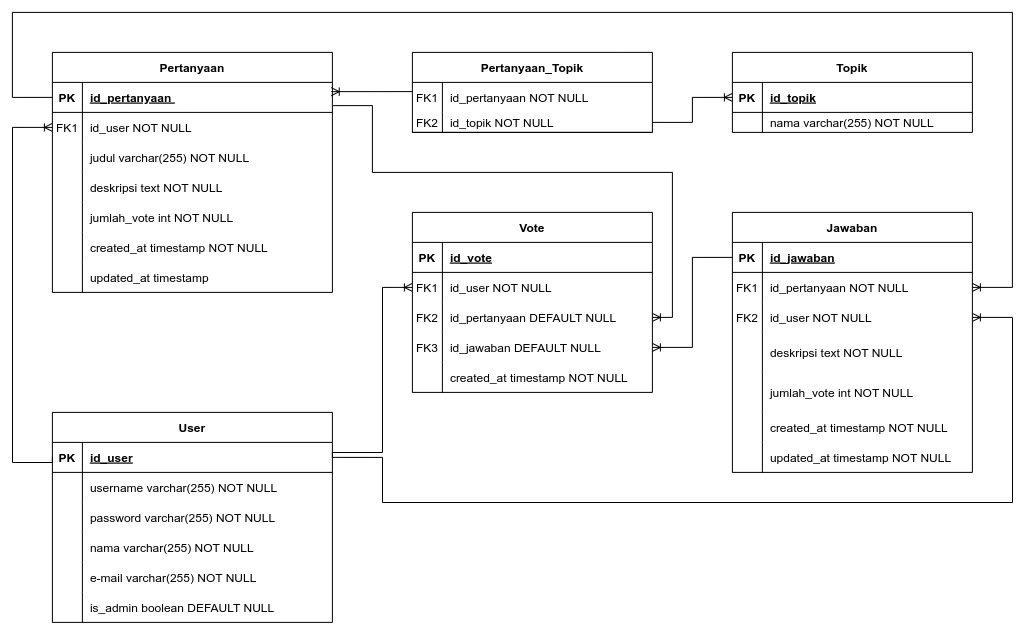
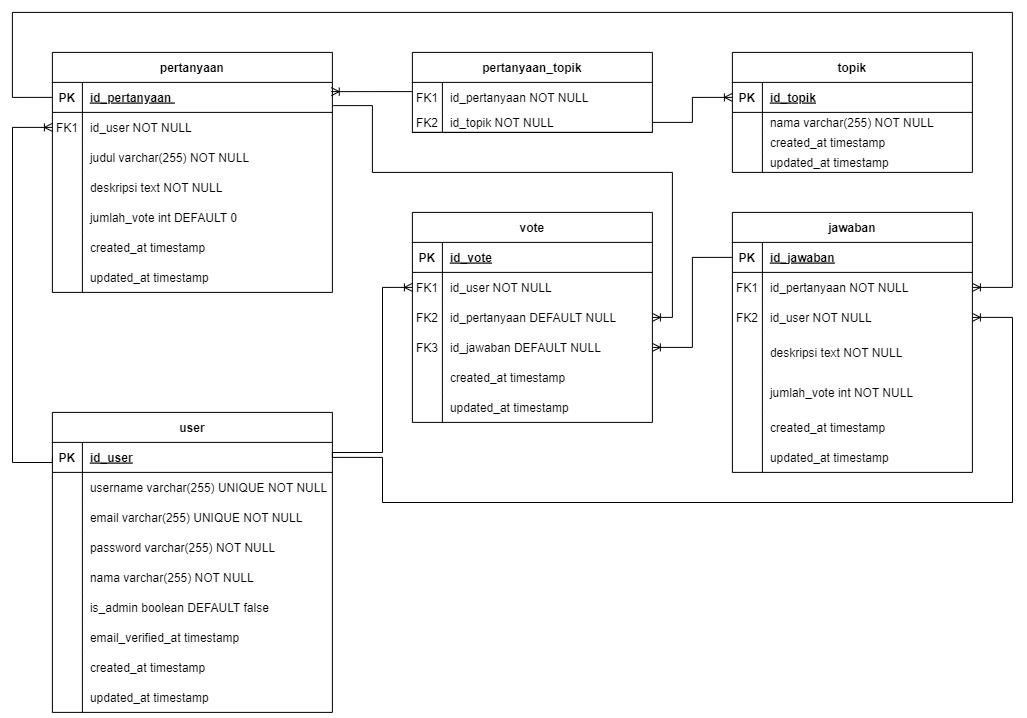
docs: update mvp, sevice implementation dan erd

diff --git a/README.md b/README.md
@@ -7,19 +7,23 @@ Sebuah forum diskusi di mana mahasiswa dapat membuat unggahan pertanyaan dan bis
 - User baru dapat melakukan pendaftaran akun yang terhubung ke sistem
 - User dapat melakukan proses autentikasi untuk masuk ke dalam sistem
 - User dapat melakukan reset password dari akun user
-- User dapat melihat pertanyaan di website
-- User dapat membuat pertanyaan di website
+- User dapat melihat profil user lain
+- User dapat melihat profil ketika terautentikasi
+- User dapat melihat pertanyaan di halaman utama website
+- User dapat membuat pertanyaan di website 
 - User dapat mengubah properti yang dimiliki suatu pertanyaan (judul, topik, dan deskripsi)
 - User dapat menghapus pertanyaan yang telah dibuat
-- User dapat memberikan jawaban pada pertanyaan
-- User dapat memberikan vote pada pertanyaan
-- User dapat memberikan vote pada jawaban
-- User dapat mencari pertanyaan yang ada di dalam sistem
-- User dapat melakukan pencarian berdasarkan topik
+- User dapat memberikan jawaban pada pertanyaan 
+- User dapat memberikan vote pada pertanyaan 
+- User dapat memberikan vote pada jawaban 
+- User dapat mencari pertanyaan yang ada pada website 
+- User dapat melakukan sortir pencarian berdasarkan topik 
 - User dapat melakukan sortir pencarian berdasarkan waktu unggah dan jumlah vote
-- Admin dapat melakukan proses autentikasi untuk masuk ke dalam sistem
-- Admin dapat menghapus user yang terdapat di dalam sistem
-- Admin dapat menghapus pertanyaan yang telah dibuat user
+- Admin dapat melakukan proses autentikasi untuk masuk ke dalam sistem 
+- Admin dapat melihat daftar user yang ada di dalam sistem
+- Admin dapat mengubah data user yang terdapat di dalam sistem (username, nama, email, role admin)
+- Admin dapat menghapus user yang terdapat di dalam sistem 
+- Admin dapat menghapus pertanyaan yang telah dibuat user 
 - Admin dapat menghapus komentar yang diberikan dari user
 
 ## Service Implementation
@@ -33,21 +37,29 @@ GIVEN => User ingin melakukan reset password dari akun
 WHEN => User mengklik link "Lupa Password" pada halaman autentikasi dan mengikuti langkah-langkah yang diberikan
 THEN => Sistem akan memvalidasi informasi yang diberikan, mengirimkan email yang berisi link untuk reset password, dan memberikan notifikasi bahwa email telah dikirim.
 
+GIVEN => User ingin melihat profil user lain dan riwayat pertanyaan yang sudah dibuat
+WHEN => User mengklik tombol username user lain
+THEN => Sistem akan menampilkan data user lain dan daftar pertanyaan yang telah dibuat oleh user tersebut dengan informasi seperti judul, topik, jumlah jawaban, dan jumlah vote dengan urutan terbaru.
+
+GIVEN => User ingin melihat profil sendiri dan riwayat pertanyaan yang sudah dibuat
+WHEN => User mengklik tombol profil
+THEN => Sistem akan menampilkan data user dan daftar pertanyaan yang telah dibuat oleh user dengan informasi seperti judul, topik, jumlah jawaban, dan jumlah vote dengan urutan terbaru.
+
 GIVEN => User ingin melihat pertanyaan di website
 WHEN => User membuka halaman pertanyaan
-THEN => Sistem akan menampilkan daftar pertanyaan yang telah dibuat oleh pengguna lain, beserta informasi seperti judul, topik, deskripsi, jumlah jawaban, dan jumlah vote.
+THEN => Sistem akan menampilkan daftar pertanyaan yang telah dibuat oleh pengguna lain, beserta informasi seperti judul, topik, deskripsi, jumlah jawaban, dan jumlah vote dengan urutan terbaru.
 
-GIVEN => User ingin membuat pertanyaan di website
+GIVEN => User ingin membuat pertanyaan di website dan telah melakukan log-in 
 WHEN => User mengklik tombol "Buat Pertanyaan" pada halaman pertanyaan dan mengisi form yang diberikan
-THEN => Sistem akan memvalidasi informasi yang diberikan, membuat pertanyaan baru untuk user, dan mengarahkan user ke halaman pertanyaan yang baru saja dibuat.
+THEN => Sistem akan memvalidasi informasi yang diberikan, membuat pertanyaan baru untuk user, dan mengarahkan user ke halaman pertanyaan.
 
-GIVEN => User ingin mengubah properti yang dimiliki suatu pertanyaan (judul, topik, deskripsi)
+GIVEN => User ingin mengubah properti yang dimiliki suatu pertanyaan (judul, topik, deskripsi) dan telah melakukan log-in
 WHEN => User mengklik tombol "Ubah" pada halaman pertanyaan yang ingin diubah dan mengisi form yang diberikan
-THEN => Sistem akan memvalidasi informasi yang diberikan, mengubah properti dari pertanyaan yang dimaksud, dan mengarahkan user ke halaman pertanyaan yang telah diubah.
+THEN => Sistem akan memvalidasi informasi yang diberikan, mengubah properti dari pertanyaan milik user yang dimaksud, dan mengarahkan user ke halaman pertanyaan.
 
-GIVEN => User ingin menghapus pertanyaan yang telah dibuat
+GIVEN => User ingin menghapus pertanyaan yang telah dibuat dan telah melakukan log-in
 WHEN => User mengklik tombol "Hapus" pada halaman pertanyaan yang ingin dihapus
-THEN => Sistem akan memvalidasi bahwa user memiliki hak untuk menghapus pertanyaan tersebut, menghapus pertanyaan dari sistem, dan mengarahkan user ke halaman pertanyaan yang masih tersedia.
+THEN => Sistem akan memvalidasi bahwa user memiliki hak untuk menghapus pertanyaan tersebut, menghapus pertanyaan dari sistem, dan mengarahkan user ke halaman pertanyaan.
 
 GIVEN => User ingin memberikan jawaban pada pertanyaan
 WHEN => User mengisi form jawaban yang tersedia pada halaman pertanyaan
@@ -65,10 +77,6 @@ GIVEN => User ingin mencari pertanyaan yang telah terbuat
 WHEN => User memasukkan kata kunci pada kolom pencarian pada halaman pertanyaan dan menekan tombol "Cari"
 THEN => Sistem akan mencari pertanyaan yang sesuai dengan kata kunci yang diberikan oleh user dan menampilkan hasil pencarian pada halaman pertanyaan.
 
-GIVEN => User ingin mencari pertanyaan berdasarkan kata kunci
-WHEN => User memasukkan kata kunci pada kolom pencarian pada halaman pertanyaan dan menekan tombol "Cari"
-THEN => Sistem akan mencari pertanyaan yang sesuai dengan kata kunci yang diberikan oleh user dan menampilkan hasil pencarian pada halaman pertanyaan.
-
 GIVEN => User ingin melakukan pencarian berdasarkan topik
 WHEN => User memilih topik yang diinginkan pada daftar topik yang tersedia pada halaman pertanyaan dan menekan tombol "Cari"
 THEN => Sistem akan menampilkan daftar pertanyaan yang sesuai dengan topik yang dipilih oleh user pada halaman pertanyaan.
@@ -80,6 +88,14 @@ THEN => Sistem akan menampilkan daftar pertanyaan yang diurutkan berdasarkan kri
 GIVEN => Admin ingin melakukan autentikasi untuk masuk ke dalam sistem
 WHEN => Admin memasukkan username dan password pada form autentikasi khusus admin dan menekan tombol "Masuk"
 THEN => Sistem akan memvalidasi informasi yang diberikan, mengarahkan admin ke halaman dashboard admin, dan memberikan notifikasi bahwa autentikasi berhasil dilakukan.
+
+GIVEN => Admin ingin melihat daftar user untuk diubah atau dihapus
+WHEN => Admin mengklik tombol "manage user"
+THEN => Sistem mengarahkan ke halaman "manage user" dan menampilkan daftar user.
+
+GIVEN => Admin ingin mengubah data yang dimiliki satu user (username, nama, email, role admin)
+WHEN => Admin mengklik tombol "Ubah" pada user yang ingin diubah dan mengisi form yang diberikan
+THEN => Sistem akan memvalidasi informasi yang diberikan, mengubah data dari user yang dimaksud, dan mengarahkan admin ke halaman manage user.
 
 GIVEN => Admin ingin menghapus user yang terdapat di dalam sistem
 WHEN => Admin memilih opsi "Hapus" pada halaman daftar user dan menekan tombol "Konfirmasi"
